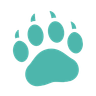
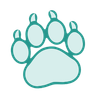
Show the bear as soon as a pin leaves its paw; outlined see-through paws
Standalone pins draw their bear from the paw threshold (zoom 9), small at first, instead of a bare
dot until zoom 12. Cluster paws are now a teal outline with a faint fill so the map shows through,
with a dark count on a cream halo.

diff --git a/bear-necessities-web/src/app/features/map/map.component.ts b/bear-necessities-web/src/app/features/map/map.component.ts
@@ -871,7 +871,8 @@ export class MapComponent implements AfterViewInit, OnDestroy {
       source: 'events-src',
       paint: {
         'circle-color': ['get', 'pinColor'],
-        'circle-radius': ['interpolate', ['linear'], ['zoom'], 4, 4.5, 10, 7.5, 11.9, 9.5, 12, 6, 16, 7],
+        // A gold-ringed dot while the map is zoomed out to paw level; from there on it is the bear's ground spot
+        'circle-radius': ['interpolate', ['linear'], ['zoom'], 4, 4.5, DENSITY_MAX_ZOOM - 0.1, 7, DENSITY_MAX_ZOOM, 4, 12, 6, 16, 7],
         'circle-stroke-color': EVENT_RING_COLOR,
         'circle-stroke-width': 3
       }
@@ -881,15 +882,15 @@ export class MapComponent implements AfterViewInit, OnDestroy {
       id: 'event-icons',
       type: 'symbol',
       source: 'events-src',
-      minzoom: 12,
+      minzoom: DENSITY_MAX_ZOOM,
       layout: {
         'icon-image': ['coalesce', ['image', ['get', 'bear']], ['image', EVENT_FALLBACK_BEAR]],
-        'icon-size': ['interpolate', ['linear'], ['zoom'], 12, 0.75, 16, 1.1],
+        'icon-size': ['interpolate', ['linear'], ['zoom'], DENSITY_MAX_ZOOM, 0.5, 12, 0.75, 16, 1.1],
         'icon-anchor': 'bottom',
         'icon-allow-overlap': true,
         'icon-ignore-placement': true,
-        // The date hangs under the dot like a little ticket stub
-        'text-field': ['get', 'dateLabel'],
+        // The date hangs under the dot like a little ticket stub, once there's room for it
+        'text-field': ['step', ['zoom'], '', 12, ['get', 'dateLabel']],
         'text-font': ['DIN Pro Bold', 'Arial Unicode MS Bold'],
         'text-size': 11,
         'text-anchor': 'top',
@@ -1122,13 +1123,11 @@ export class MapComponent implements AfterViewInit, OnDestroy {
       paint: {
         // Festival-style round pins: filled with the category colour, cream ring like the style board
         'circle-color': ['get', 'pinColor'],
-        // Small dots when zoomed out; zoomed in, a mascot pin shrinks its dot to a "ground spot" the bear stands on,
-        // while emoji-only categories grow into round badges that hold the emoji
+        // Individual pins only exist past the paw zooms, and each one is a bear from the start: its dot is just the
+        // "ground spot" it stands on. Emoji-only categories get a round badge that holds the emoji instead.
         'circle-radius': [
           'interpolate', ['linear'], ['zoom'],
-          4, 4,
-          10, 7,
-          11.9, 9,
+          DENSITY_MAX_ZOOM, ['case', HAS_BEAR_POSE, 3.5, 8],
           12, ['case', HAS_BEAR_POSE, 5, 12],
           16, ['case', HAS_BEAR_POSE, 6, 15]
         ],
@@ -1142,19 +1141,19 @@ export class MapComponent implements AfterViewInit, OnDestroy {
       }
     });
 
-    // Category emoji sits over the coloured dot once zoomed in enough to be legible.
-    // The dot alone shows at low zoom so pins stay tiny and don't smother each other.
+    // As soon as a place stands on its own (no longer inside a paw) it shows its bear, small at first and
+    // growing as you zoom in; there is no "bare dot" stage
     map.addLayer({
       id: 'place-icons',
       type: 'symbol',
       source: 'places-src',
       filter: ['!', ['has', 'point_count']],
-      minzoom: 12,
       layout: {
         // The bear pose when the category has one (and its image has loaded), otherwise the category emoji
         'icon-image': ['coalesce', ['image', ['get', 'bear']], ['image', ['get', 'icon']]],
         // Bears (48 CSS px tall at size 1) stand on the dot; emoji (32 px) sit inside the round badge
         'icon-size': ['interpolate', ['linear'], ['zoom'],
+          DENSITY_MAX_ZOOM, 0.5,
           12, ['case', HAS_BEAR_POSE, 0.75, 0.62],
           16, ['case', HAS_BEAR_POSE, 1.1, 0.78]],
         'icon-anchor': ['case', HAS_BEAR_POSE, 'bottom', 'center'],

diff --git a/bear-necessities-web/design/generate-paws.js b/bear-necessities-web/design/generate-paws.js
@@ -8,12 +8,14 @@ const [, , referencePath, outputDir] = process.argv;
 const CLUSTER_TILT_DEGREES = -9;
 const VARIANTS = [
   { name: 'paw-trail', size: 48, fill: [93, 64, 55], fillAlpha: 0.85, tilt: 0 },
-  { name: 'paw-cluster-small', size: 96, fill: [77, 182, 172], outline: [255, 247, 230], tilt: CLUSTER_TILT_DEGREES },
-  { name: 'paw-cluster-medium', size: 96, fill: [38, 166, 154], outline: [255, 247, 230], tilt: CLUSTER_TILT_DEGREES },
-  { name: 'paw-cluster-large', size: 96, fill: [0, 121, 107], outline: [255, 247, 230], tilt: CLUSTER_TILT_DEGREES }
+  // Clusters are an outlined paw with a faint fill, so the map underneath stays readable
+  { name: 'paw-cluster-small', size: 96, fill: [77, 182, 172], fillAlpha: 0.22, stroke: [38, 150, 140], tilt: CLUSTER_TILT_DEGREES },
+  { name: 'paw-cluster-medium', size: 96, fill: [38, 166, 154], fillAlpha: 0.26, stroke: [0, 121, 107], tilt: CLUSTER_TILT_DEGREES },
+  { name: 'paw-cluster-large', size: 96, fill: [0, 121, 107], fillAlpha: 0.3, stroke: [0, 77, 64], tilt: CLUSTER_TILT_DEGREES }
 ];
 const MARGIN_SHARE = 0.08;
-const OUTLINE_SHARE = 0.05;
+const OUTLINE_SHARE = 0.03;
+const OUTLINE_CUT = 40;
 
 const solidWithAlpha = (width, height, [r, g, b], alphaMask) => {
   const pixels = Buffer.alloc(width * height * 4);
@@ -60,16 +62,22 @@ const solidWithAlpha = (width, height, [r, g, b], alphaMask) => {
   }
   const heel = { x: sumX / weight / side - 0.5, y: sumY / weight / side - 0.5 };
 
-  const outlineMask = await sharp(squareMask, { raw: { width: side, height: side, channels: 1 } })
-    .blur(Math.max(0.5, side * OUTLINE_SHARE)).threshold(8).blur(1)
-    // Keep a single channel: blur/threshold can hand back 3, which would misalign every pixel of the outline
-    .extractChannel(0).raw().toBuffer();
+  // Grow the paw by about one blur radius: blur, then cut at the level a step edge reaches one sigma out.
+  // Each step is its own sharp pass because sharp reorders operations chained on one pipeline.
+  const toSingleChannel = (pixels) => sharp(pixels, { raw: { width: side, height: side, channels: 1 } });
+  const blurred = await toSingleChannel(squareMask).blur(Math.max(0.5, side * OUTLINE_SHARE)).extractChannel(0).raw().toBuffer();
+  const grown = blurred.map(alpha => (alpha >= OUTLINE_CUT ? 255 : 0));
+  // Keep a single channel: blur can hand back 3, which would misalign every pixel of the outline
+  const outlineMask = await toSingleChannel(grown).blur(1).extractChannel(0).raw().toBuffer();
   if (outlineMask.length !== side * side) throw new Error(`outline mask has ${outlineMask.length / (side * side)} channels`);
+
+  // The stroke is the band the dilated outline adds around each pad, so the fill inside stays see-through
+  const strokeMask = outlineMask.map((alpha, i) => Math.max(0, alpha - squareMask[i]));
 
   for (const variant of VARIANTS) {
     const fillMask = variant.fillAlpha ? squareMask.map(alpha => Math.round(alpha * variant.fillAlpha)) : squareMask;
     const layers = [{ input: await solidWithAlpha(side, side, variant.fill, fillMask) }];
-    if (variant.outline) layers.unshift({ input: await solidWithAlpha(side, side, variant.outline, outlineMask) });
+    if (variant.stroke) layers.push({ input: await solidWithAlpha(side, side, variant.stroke, strokeMask) });
     const composed = await sharp({ create: { width: side, height: side, channels: 4, background: { r: 0, g: 0, b: 0, alpha: 0 } } })
       .composite(layers).png().toBuffer();
     const rotated = variant.tilt

diff --git a/bear-necessities-web/src/app/core/map/paw-clusters.ts b/bear-necessities-web/src/app/core/map/paw-clusters.ts
@@ -4,7 +4,7 @@ import { loadMapImages } from './map-images';
 
 /**
  * Groups of places (Mapbox clusters and server density cells) drawn as bear paws that grow with their count.
- * Images come from design/generate-paws.js (paw-reference.png recoloured, cream outline, tilted).
+ * Images come from design/generate-paws.js (paw-reference.png as a teal outline with a faint fill, tilted).
  */
 
 const PAW_CLUSTER_PIXELS = 96;
@@ -19,8 +19,8 @@ const ICON_SIZES = { small: 0.85, medium: 1.05, large: 1.25, huge: 1.45 };
 const TEXT_SIZE = 12;
 // Zoomed far out a whole country fits in a few pixels, so paws shrink with the map: [zoom, scale]
 const ZOOM_SCALE: [number, number][] = [[1.5, 0.5], [4, 0.62], [7, 0.82], [10, 1]];
-// Paws let the map show through when they're crowded at low zoom, becoming solid as they spread out
-const ZOOM_OPACITY: [number, number][] = [[2, 0.72], [8, 0.92]];
+// The fill is already faint; crowded low-zoom paws fade a little more so the map shows through
+const ZOOM_OPACITY: [number, number][] = [[2, 0.8], [8, 1]];
 
 const PAW_IMAGE_IDS = ['paw-cluster-small', 'paw-cluster-medium', 'paw-cluster-large'];
 
@@ -62,7 +62,10 @@ export function pawClusterLayout(
 }
 
 export const PAW_CLUSTER_PAINT: mapboxgl.SymbolLayerSpecification['paint'] = {
-  'text-color': FESTIVAL_PALETTE.cream,
+  // Dark count with a cream halo reads on the pale pad and on any map colour behind it
+  'text-color': FESTIVAL_PALETTE.darkTeal,
+  'text-halo-color': FESTIVAL_PALETTE.cream,
+  'text-halo-width': 1.2,
   'icon-opacity': ['interpolate', ['linear'], ['zoom'],
     ...ZOOM_OPACITY.flatMap(([zoom, opacity]) => [zoom, opacity])] as mapboxgl.ExpressionSpecification
 };
